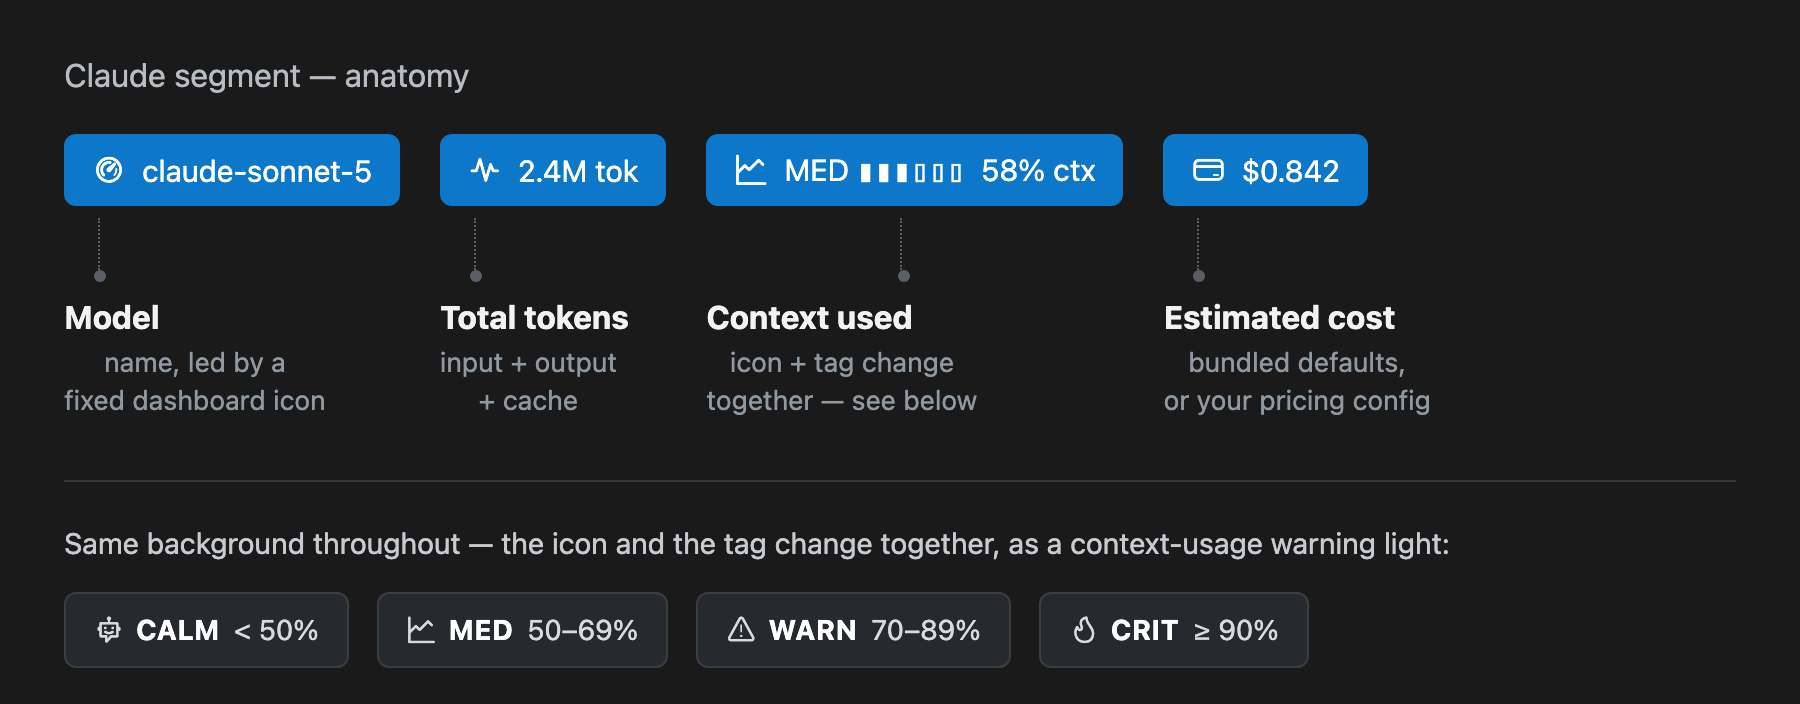
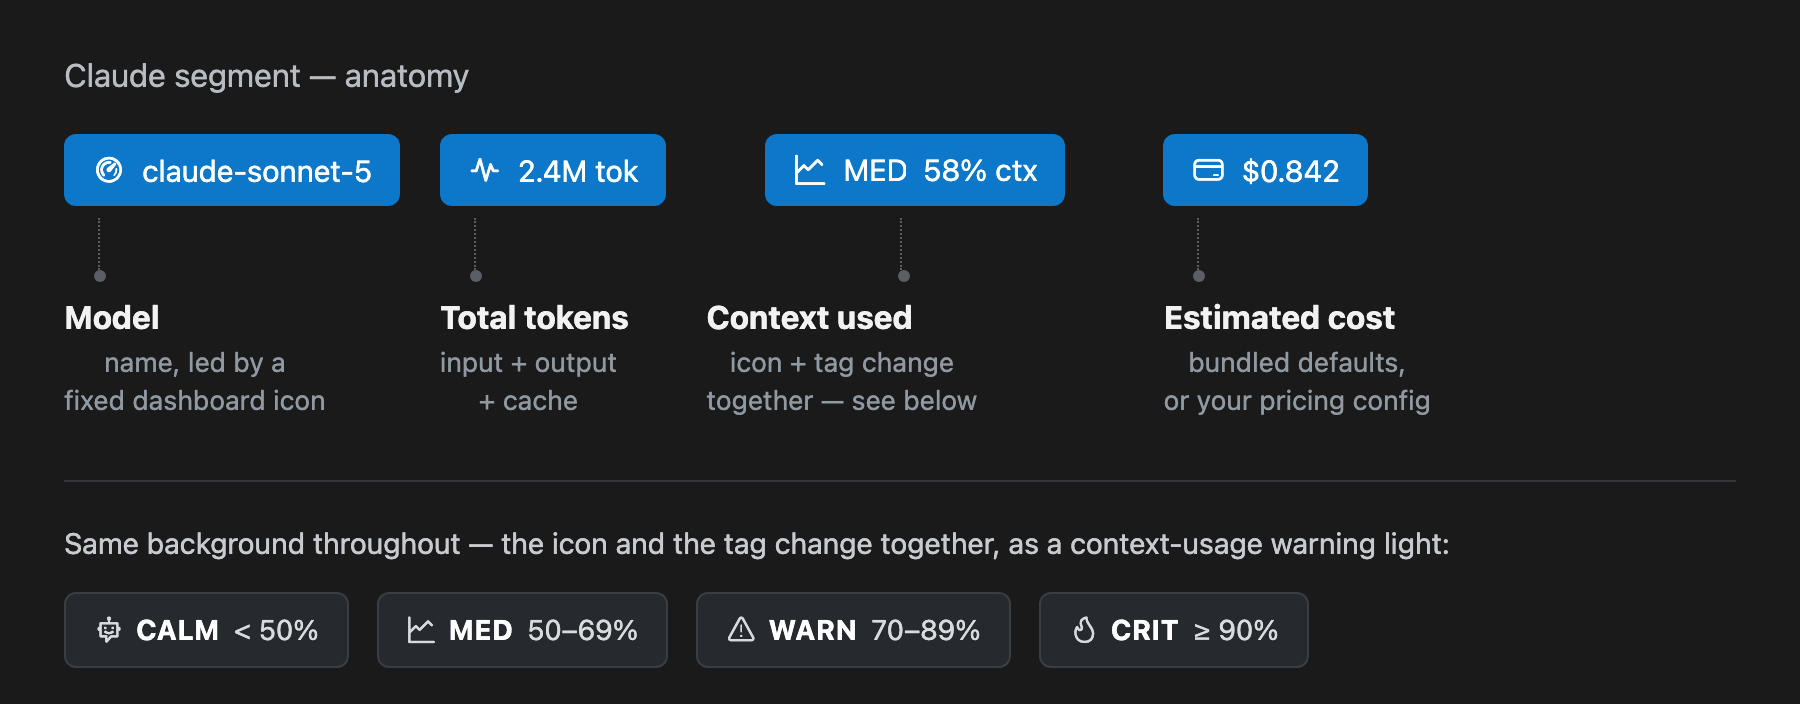
Default the context bar off and clean up the status bar mockups
showContextBar now defaults to false, so the context segment shows
just the icon, tag, and percentage out of the box. The prototype's
status bar and tooltip mockups were also reworked to drop unrelated
chrome (fake editor state, Live Share, notification bell) and align
the Claude segment flush right, matching how VS Code actually lays
out status bar items and how the extension's own item is positioned.
Doc screenshots regenerated to match.

Changed region(s): [[0.3733, 0.1875, 0.6222, 0.3125]]

diff --git a/prototypes/rule-ticks.html b/prototypes/rule-ticks.html
@@ -50,20 +50,24 @@
   p.sub { font-size: 13.5px; color: var(--muted); margin: 0 0 32px; line-height: 1.5; }
   p.sub code { font-family: ui-monospace, SFMono-Regular, "SF Mono", Menlo, Consolas, monospace; font-size: 12.5px; background: var(--line); padding: 1px 5px; border-radius: 3px; }
 
-  .barwrap { margin-bottom: 18px; }
+  .barwrap {
+    margin-bottom: 18px;
+    background: #007ACC;
+    height: 22px;
+    display: flex;
+    align-items: center;
+    justify-content: flex-end;
+  }
 
   .vsbar {
-    background: #007ACC;
     color: #FFFFFF;
     font-family: -apple-system, BlinkMacSystemFont, "Segoe WPC", "Segoe UI", Ubuntu, sans-serif;
     font-size: 12px;
     line-height: 22px;
-    height: 22px;
     padding: 0 10px;
     white-space: nowrap;
     overflow: hidden;
     text-overflow: ellipsis;
-    width: 100%;
   }
   .ic { font-family: 'codicon'; font-size: 14px; margin-right: 4px; line-height: 1; vertical-align: -3px; }
 
@@ -178,13 +182,10 @@
     height: 22px;
     display: flex;
     align-items: center;
-    justify-content: space-between;
+    justify-content: flex-end;
     padding: 0 10px;
     white-space: nowrap;
   }
-  .tooltip-bar .left, .tooltip-bar .right { display: flex; align-items: center; }
-  .tooltip-bar .seg { display: flex; align-items: center; margin-right: 14px; }
-  .tooltip-bar .right .seg { margin-right: 0; margin-left: 14px; }
 
   .panel-stage { background: #1e1e1e; border-radius: 8px; padding: 16px 20px 20px; }
   .panel-body { color: #cccccc; font-family: -apple-system, BlinkMacSystemFont, "Segoe UI", Roboto, Helvetica, Arial, sans-serif; }
@@ -254,19 +255,8 @@
         <p class="foot">Click for the full session panel (all sessions, 7-day history).</p>
       </div>
       <div class="tooltip-bar">
-        <div class="left">
-          <div class="seg">05:20:06</div>
-          <div class="seg"><span class="ic">&#xea7b;</span>no file</div>
-        </div>
         <div class="right">
-          <div class="seg"><span class="ic">&#xeacd;</span>claude-sonnet-5</div>
-          <div class="seg">&middot;</div>
-          <div class="seg"><span class="ic">&#xeb31;</span>7.4M tok</div>
-          <div class="seg">&middot;</div>
-          <div class="seg"><span class="ic" id="icon-mini">&#xeb08;</span><span id="tag-mini">CALM </span><span id="fill-mini">▮▮▮▯▯▯</span><span id="gap-mini">&nbsp;&nbsp;</span><span id="pct-mini">45</span>% ctx</div>
-          <div class="seg">&middot;</div>
-          <div class="seg"><span class="ic">&#xeac9;</span>$3.687</div>
-          <div class="seg"><span class="ic">&#xeb9a;</span></div>
+          <span class="ic">&#xeacd;</span>claude-sonnet-5 &middot; <span class="ic">&#xeb31;</span>7.4M tok &middot; <span class="ic" id="icon-mini">&#xeb08;</span><span id="tag-mini">CALM </span><span id="fill-mini">▮▮▮▯▯▯</span><span id="gap-mini">&nbsp;&nbsp;</span><span id="pct-mini">45</span>% ctx &middot; <span class="ic">&#xeac9;</span>$3.687
         </div>
       </div>
     </div>
@@ -427,8 +417,8 @@
         <span class="mark" style="left:90%"></span><span style="left:90%">90</span>
       </div>
       <label class="toggle-row">
-        <input type="checkbox" id="showBar" checked />
-        Show context bar <span class="toggle-hint">(new <code>claudeSimpleStatsBar.showContextBar</code> setting &mdash; unchecked keeps the icon, tag, and percentage, just drops the bar)</span>
+        <input type="checkbox" id="showBar" />
+        Show context bar <span class="toggle-hint">(<code>claudeSimpleStatsBar.showContextBar</code> setting, now defaulting to off &mdash; unchecked keeps the icon, tag, and percentage, just drops the bar)</span>
       </label>
     </div>
 

diff --git a/src/claudeSession/claudeStatusBar.ts b/src/claudeSession/claudeStatusBar.ts
@@ -50,7 +50,7 @@ export class ClaudeSessionStatusBar implements vscode.Disposable {
   private contextWindowTokens = 0;
   private pollIntervalMs = 2000;
   private pricing: Record<string, ModelPricing> = {};
-  private showContextBar = true;
+  private showContextBar = false;
 
   constructor(context: vscode.ExtensionContext) {
     this.item = vscode.window.createStatusBarItem(
@@ -77,7 +77,7 @@ export class ClaudeSessionStatusBar implements vscode.Disposable {
     const cfg = vscode.workspace.getConfiguration("claudeSimpleStatsBar");
     this.contextWindowTokens = cfg.get<number>("contextWindowTokens", 0);
     this.pricing = resolvePricing(cfg.get<Record<string, ModelPricing>>("pricing", {}));
-    this.showContextBar = cfg.get<boolean>("showContextBar", true);
+    this.showContextBar = cfg.get<boolean>("showContextBar", false);
 
     const newPollIntervalMs = cfg.get<number>("pollIntervalMs", 2000);
     if (newPollIntervalMs !== this.pollIntervalMs || !this.pollTimer) {

diff --git a/README.md b/README.md
@@ -10,7 +10,7 @@
 
 Live Claude Code session stats — model, tokens, context left, cost — in the VS Code status bar.
 
-![Status bar showing the Claude segment at the right edge of the window](docs/images/statusbar-hero.png)
+![The Claude segment: model, total tokens, context used, and estimated cost](docs/images/statusbar-hero.png)
 
 ## Features
 
@@ -53,7 +53,7 @@ Click the segment, or run **Claude Simple Stats Bar: Open Session Panel**:
 |---|---|---|
 | `claudeSimpleStatsBar.pollIntervalMs` | `2000` | How often to re-check the transcript file, alongside the file watcher. |
 | `claudeSimpleStatsBar.contextWindowTokens` | `0` | Override the context window size used for context % and compaction detection. `0` auto-detects from the model (1,000,000 for Sonnet/Opus/Fable, 200,000 for Haiku 4.5). |
-| `claudeSimpleStatsBar.showContextBar` | `true` | Show the 6-segment fill bar next to the context-usage tag. Turn off to keep just the icon, tag, and percentage. |
+| `claudeSimpleStatsBar.showContextBar` | `false` | Show the 6-segment fill bar next to the context-usage tag. Off by default; turn on to add the bar back next to the icon, tag, and percentage. |
 | `claudeSimpleStatsBar.pricing` | `{}` | Per-model USD rates per 1M tokens; overrides or extends the built-in defaults. See [Cost estimates](#cost-estimates). |
 
 ## Commands

diff --git a/CHANGELOG.md b/CHANGELOG.md
@@ -2,6 +2,12 @@
 
 Notable changes to this extension, by version. Format follows [Keep a Changelog](https://keepachangelog.com/en/1.1.0/).
 
+## [0.4.2] - 2026-08-16
+
+### Changed
+
+- `claudeSimpleStatsBar.showContextBar` now defaults to `false`, so the context-usage segment shows just the icon, tag, and percentage out of the box. Turn it on to bring the 6-segment fill bar back.
+
 ## [0.4.1] - 2026-08-15
 
 ### Added
